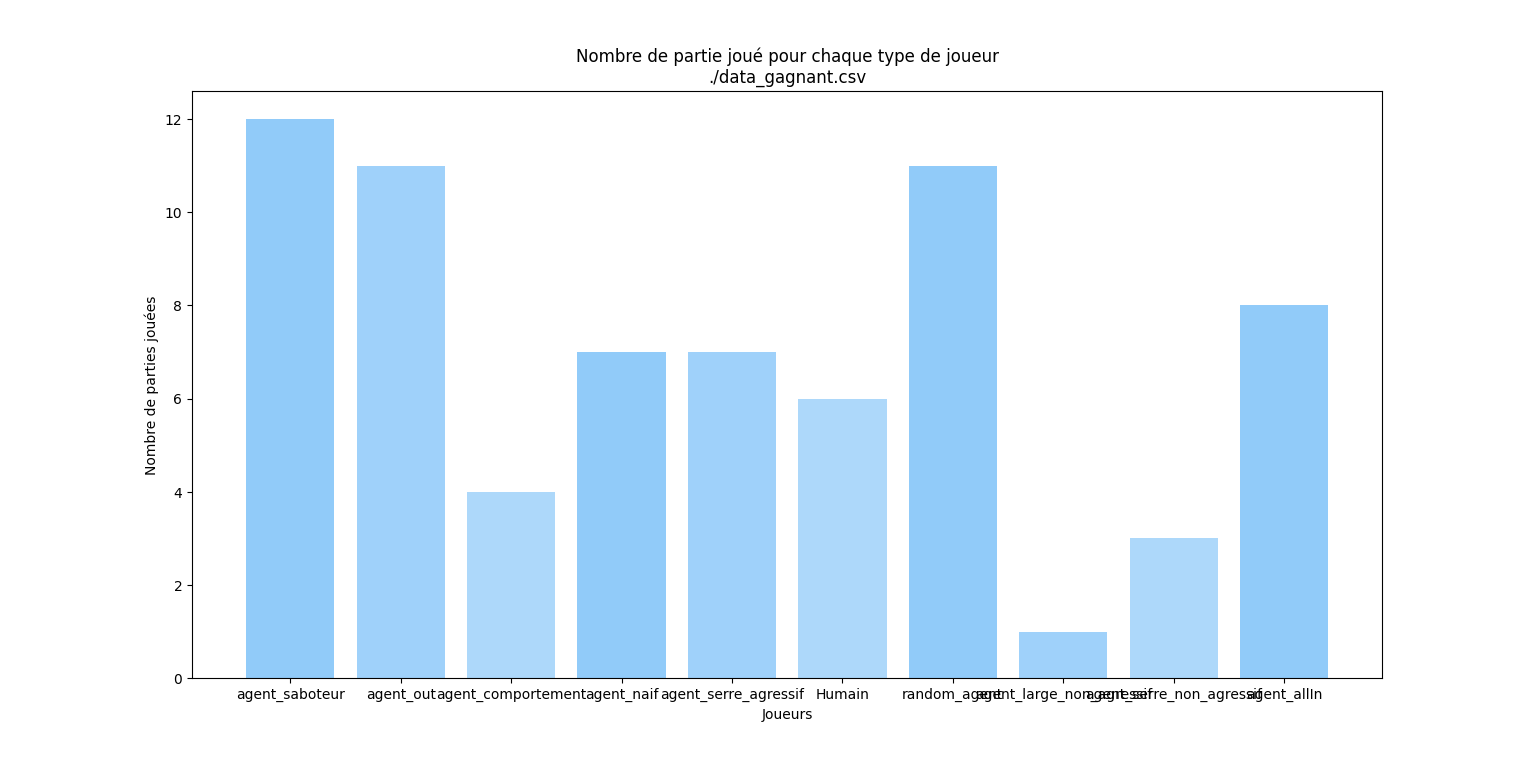
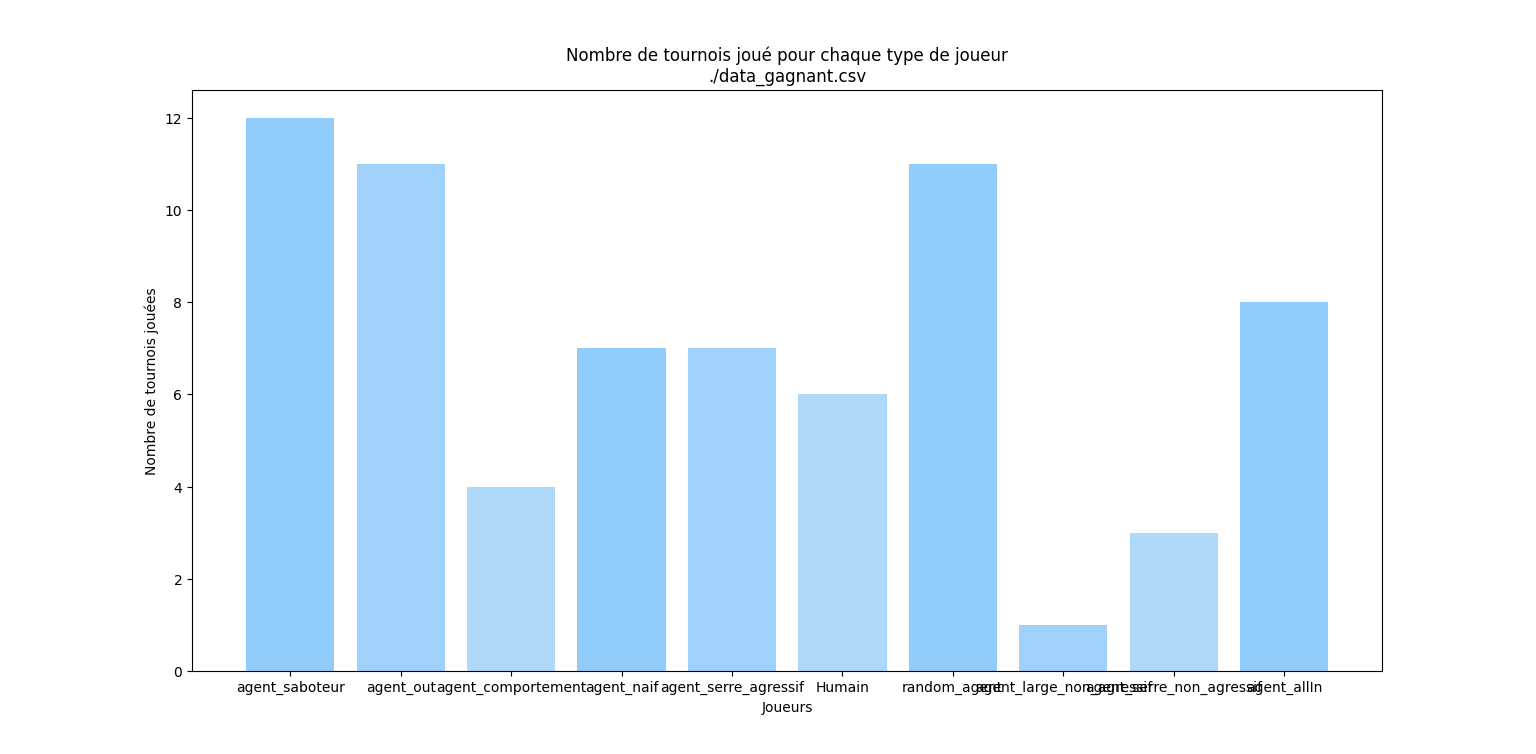
modif res

Changed region(s): [[0.1562, 0.8846, 0.875, 0.9456], [0.375, 0.061, 0.6562, 0.0915], [0.0938, 0.3966, 0.125, 0.6101]]

diff --git a/PokerPlus/Simulation/simu_bots_humains.py b/PokerPlus/Simulation/simu_bots_humains.py
@@ -320,7 +320,7 @@ def plot_gagnant_from_csv(filename = "./data_gagnant.csv" ):
 
     plt.bar(nbr_win.keys(), nbr_win.values(), color=cmap(norm(list(nbr_win.values()))))
     
-    plt.title(f"Nombre de partie gagné pour chaque type de joueur\n{filename}")
+    plt.title(f"Nombre de tournois gagné pour chaque type de joueur\n{filename}")
     plt.xlabel("Joueurs")
     plt.ylabel("Nombre de victoires")
     plt.show()
@@ -329,15 +329,15 @@ def plot_gagnant_from_csv(filename = "./data_gagnant.csv" ):
 
     norm = mpl.colors.Normalize(min(list(nbr_partie_joue.values())), max(list(nbr_partie_joue.values())))
     plt.bar(nbr_partie_joue.keys(), nbr_partie_joue.values(), color=cmap(norm(list(nbr_win.values()))))
-    plt.title(f"Nombre de partie joué pour chaque type de joueur\n{filename}")
+    plt.title(f"Nombre de tournois joué pour chaque type de joueur\n{filename}")
     plt.xlabel("Joueurs")
-    plt.ylabel("Nombre de parties jouées")
+    plt.ylabel("Nombre de tournois jouées")
     plt.show()
 
     nbr_partie_win_sur_nbr_partie_joue = {i: nbr_win[i]/nbr_partie_joue[i] for i in nbr_win.keys()}
     plt.bar(nbr_partie_win_sur_nbr_partie_joue.keys(), nbr_partie_win_sur_nbr_partie_joue.values())
-    plt.title(f"Nombre de partie gagné sur le nombre de partie joué pour chaque type de joueur\n{filename}")
+    plt.title(f"Nombre de tournois gagné sur le nombre de tournois joué pour chaque type de joueur\n{filename}")
     plt.xlabel("Joueurs")
-    plt.ylabel("Nombre de victoires sur le nombre de parties jouées")
+    plt.ylabel("Nombre de victoires sur le nombre de tournois jouées")
     plt.show()
 
